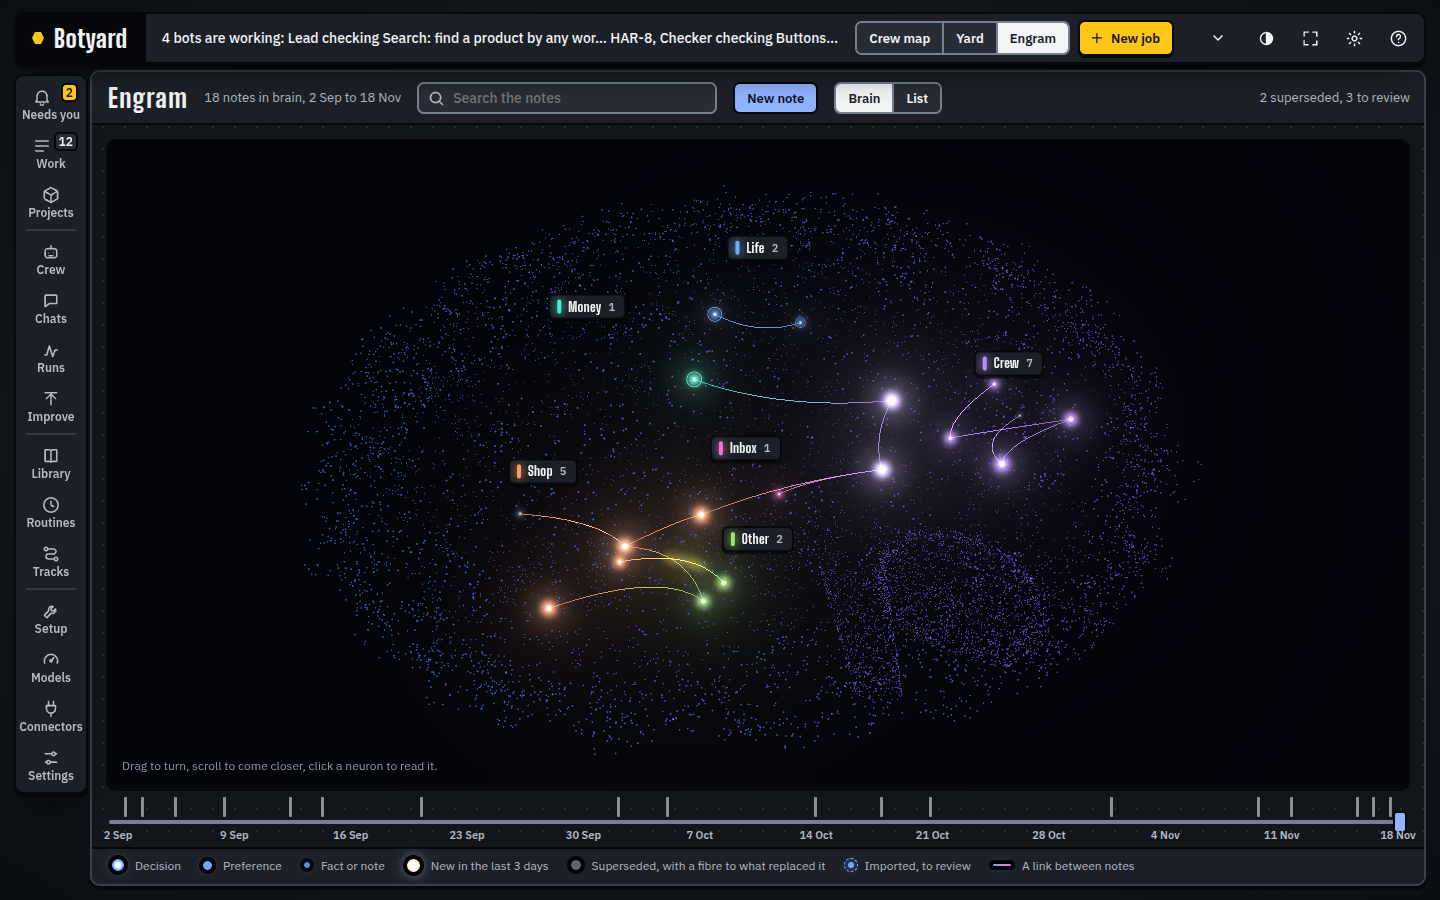
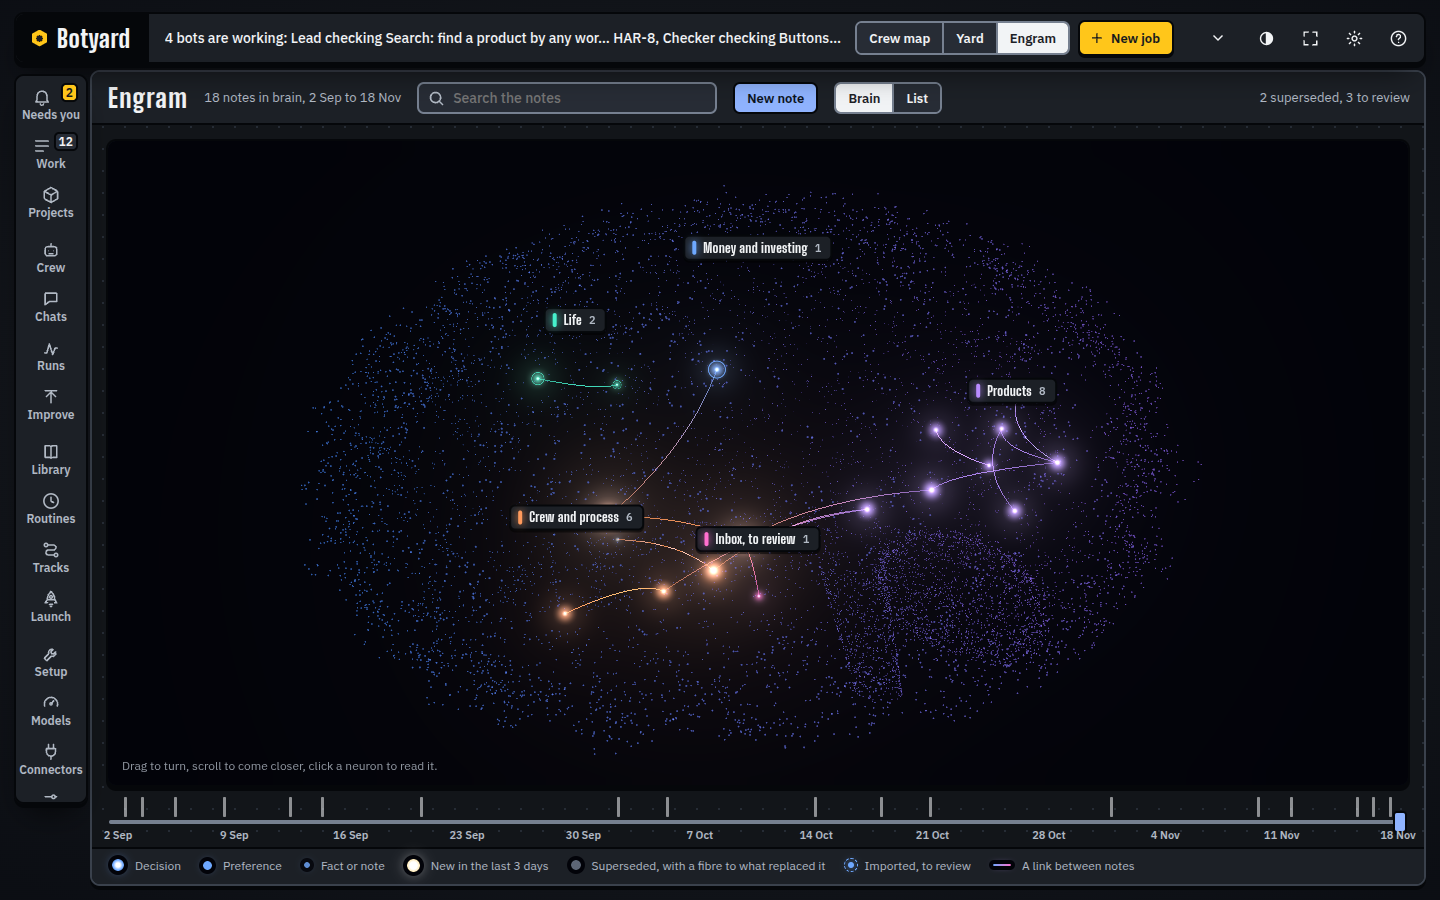
Engram by category, not project: every note in one of nine categories from its folder, type and tags (project names stay tags); the day window is mid-tone with fewer, stronger dots and inks at 5:1

diff --git a/studio/src/ui/brain-field.js b/studio/src/ui/brain-field.js
@@ -18,8 +18,9 @@ import { RADIUS, brainDust, fieldLayout } from './brain-layout.js'
 /** Light inks on the dark field, one per area, in the order the areas come. */
 export const INKS = ['#6ea8ff', '#46f0cc', '#b98cff', '#ff9a5c', '#ff6fcf', '#9be564', '#ffd166', '#ff7a7a', '#6fd8ff', '#e7c99a']
 /** Ink on the pale day window: the same hues, deep enough to read on it (at least 3:1). */
-export const DAY_INKS = ['#1f5fbf', '#0b7a63', '#7a3fd1', '#b0461a', '#a3127a', '#4a7512', '#8a6000', '#b8261b', '#20698c', '#6b5838']
-const DAY_VOID = '#eef2f7'
+/** Ink on the mid-tone day window (#b9c2ce): each mark at least 3:1 on it. */
+export const DAY_INKS = ['#0d3f8f', '#05543f', '#4d1f9e', '#7e2c06', '#7a0a5a', '#2e4f05', '#5c3f00', '#8a130a', '#0b4766', '#463620']
+const DAY_VOID = '#b9c2ce'
 const AMBER = new THREE.Color('#e08a00')
 const ASH = new THREE.Color('#5d6676')
 const WHITE = new THREE.Color('#ffffff')
@@ -56,10 +57,10 @@ void main() {
   float ring = vRing * smoothstep(0.08, 0.0, abs(d - 0.78)) * 0.7;
   if (day > 0.5) {
     // By day a neuron is ink with a soft halo of its own colour, laid over the pale window.
-    float dot = smoothstep(0.34, 0.24, d);
-    float glow = exp(-d * d * 3.2) * 0.42;
+    float dot = smoothstep(0.40, 0.30, d);
+    float glow = exp(-d * d * 4.0) * 0.30;
     float a = clamp((dot + glow + ring) * min(vGlow, 1.2), 0.0, 1.0);
-    gl_FragColor = vec4(mix(vColor, vColor * 0.7, dot), a);
+    gl_FragColor = vec4(vColor, a);
   } else {
     vec3 c = mix(vColor, vec3(1.0), core * 0.55);
     gl_FragColor = vec4(c * (core + halo + ring) * vGlow, 1.0);
@@ -67,12 +68,13 @@ void main() {
 }`
 const DUST_FRAG = `
 varying vec3 vTint;
+varying float vKeep;
 uniform float strength;
 uniform float day;
 void main() {
   float d = length(gl_PointCoord - 0.5) * 2.0;
   if (d > 1.0) discard;
-  if (day > 0.5) gl_FragColor = vec4(vTint * 0.5, (1.0 - d) * 0.9);
+  if (day > 0.5) { if (vKeep > 0.22) discard; gl_FragColor = vec4(vec3(0.20, 0.25, 0.36), (1.0 - d * d) * 0.38); }
   else gl_FragColor = vec4(vTint * (1.0 - d) * strength, 1.0);
 }`
 
@@ -191,9 +193,10 @@ export class BrainField {
       tint.set([c.r, c.g, c.b], i)
     }
     geo.setAttribute('tint', new THREE.BufferAttribute(tint, 3))
+    geo.setAttribute('keep', new THREE.BufferAttribute(Float32Array.from({ length: dust.length / 3 }, (_, i) => ((i * 0.6180339887) % 1)), 1))
     const mat = new THREE.ShaderMaterial({
       uniforms: { strength: { value: 0.5 }, scale: { value: 300 }, day: this.day },
-      vertexShader: 'attribute vec3 tint; varying vec3 vTint; uniform float scale; void main(){ vTint = tint; vec4 mv = modelViewMatrix * vec4(position,1.0); gl_PointSize = 1.7 * scale / -mv.z; gl_Position = projectionMatrix * mv; }',
+      vertexShader: 'attribute vec3 tint; attribute float keep; varying vec3 vTint; varying float vKeep; uniform float scale; uniform float day; void main(){ vTint = tint; vKeep = keep; vec4 mv = modelViewMatrix * vec4(position,1.0); gl_PointSize = (1.7 + day * 1.6) * scale / -mv.z; gl_Position = projectionMatrix * mv; }',
       fragmentShader: DUST_FRAG, blending: THREE.AdditiveBlending, depthWrite: false, transparent: true,
     })
     this.dust = new THREE.Points(geo, mat)

diff --git a/studio/src/ui/brain-map.css b/studio/src/ui/brain-map.css
@@ -6,7 +6,7 @@
  */
 
 .hud.studio .brainmap {
-  --bm-void: #eef2f7;
+  --bm-void: #b9c2ce;
   --bm-board: #e4e7eb;
   --bm-dot: #c3c9d1;
   --bm-quiet: #93a0b5;
@@ -63,7 +63,7 @@
   background: var(--bm-void);
   /* The window is set into the plate: its rim catches light at the top, its depth shades the inside edge. */
   /* The window is set into the plate: the inside edge is shaded where the plate's thickness falls. */
-  box-shadow: inset 0 14px 30px -18px rgba(20, 30, 50, 0.45), var(--thick);
+  box-shadow: inset 0 14px 30px -18px rgba(20, 30, 50, 0.55), var(--thick);
 }
 .hud.studio[data-plates='night'] .brainmap .bm-stage {
   box-shadow: inset 0 2px 0 rgba(255, 255, 255, 0.06), inset 0 0 0 1px #0c1222, inset 0 18px 40px -18px rgba(0, 0, 0, 0.9), var(--thick);
@@ -112,7 +112,7 @@
   box-shadow: 0 6px 24px rgba(0, 0, 0, 0.5);
 }
 .brainmap .bm-tip span { display: block; font-weight: 500; font-size: 11.5px; color: var(--muted); }
-.brainmap .bm-hint { position: absolute; left: 14px; bottom: 10px; margin: 0; font-size: 12px; color: var(--muted); pointer-events: none; opacity: 0.8; }
+.brainmap .bm-hint { position: absolute; left: 14px; bottom: 10px; margin: 0; font-size: 12px; color: #1c232c; pointer-events: none; opacity: 0.8; }
 
 /* ── the list ────────────────────────────────────────────────────────────────── */
 
@@ -237,3 +237,5 @@
 .brainmap .bm-newform label { display: grid; gap: 6px; font: 600 13px/1 var(--body); }
 .brainmap .bm-newform .bm-acts { margin: 0; }
 .brainmap .bm-edit-said { margin: 8px 18px 0; min-height: 1em; font-size: 13px; color: var(--muted); }
+
+.hud.studio[data-plates='night'] .brainmap .bm-hint { color: var(--muted); }
